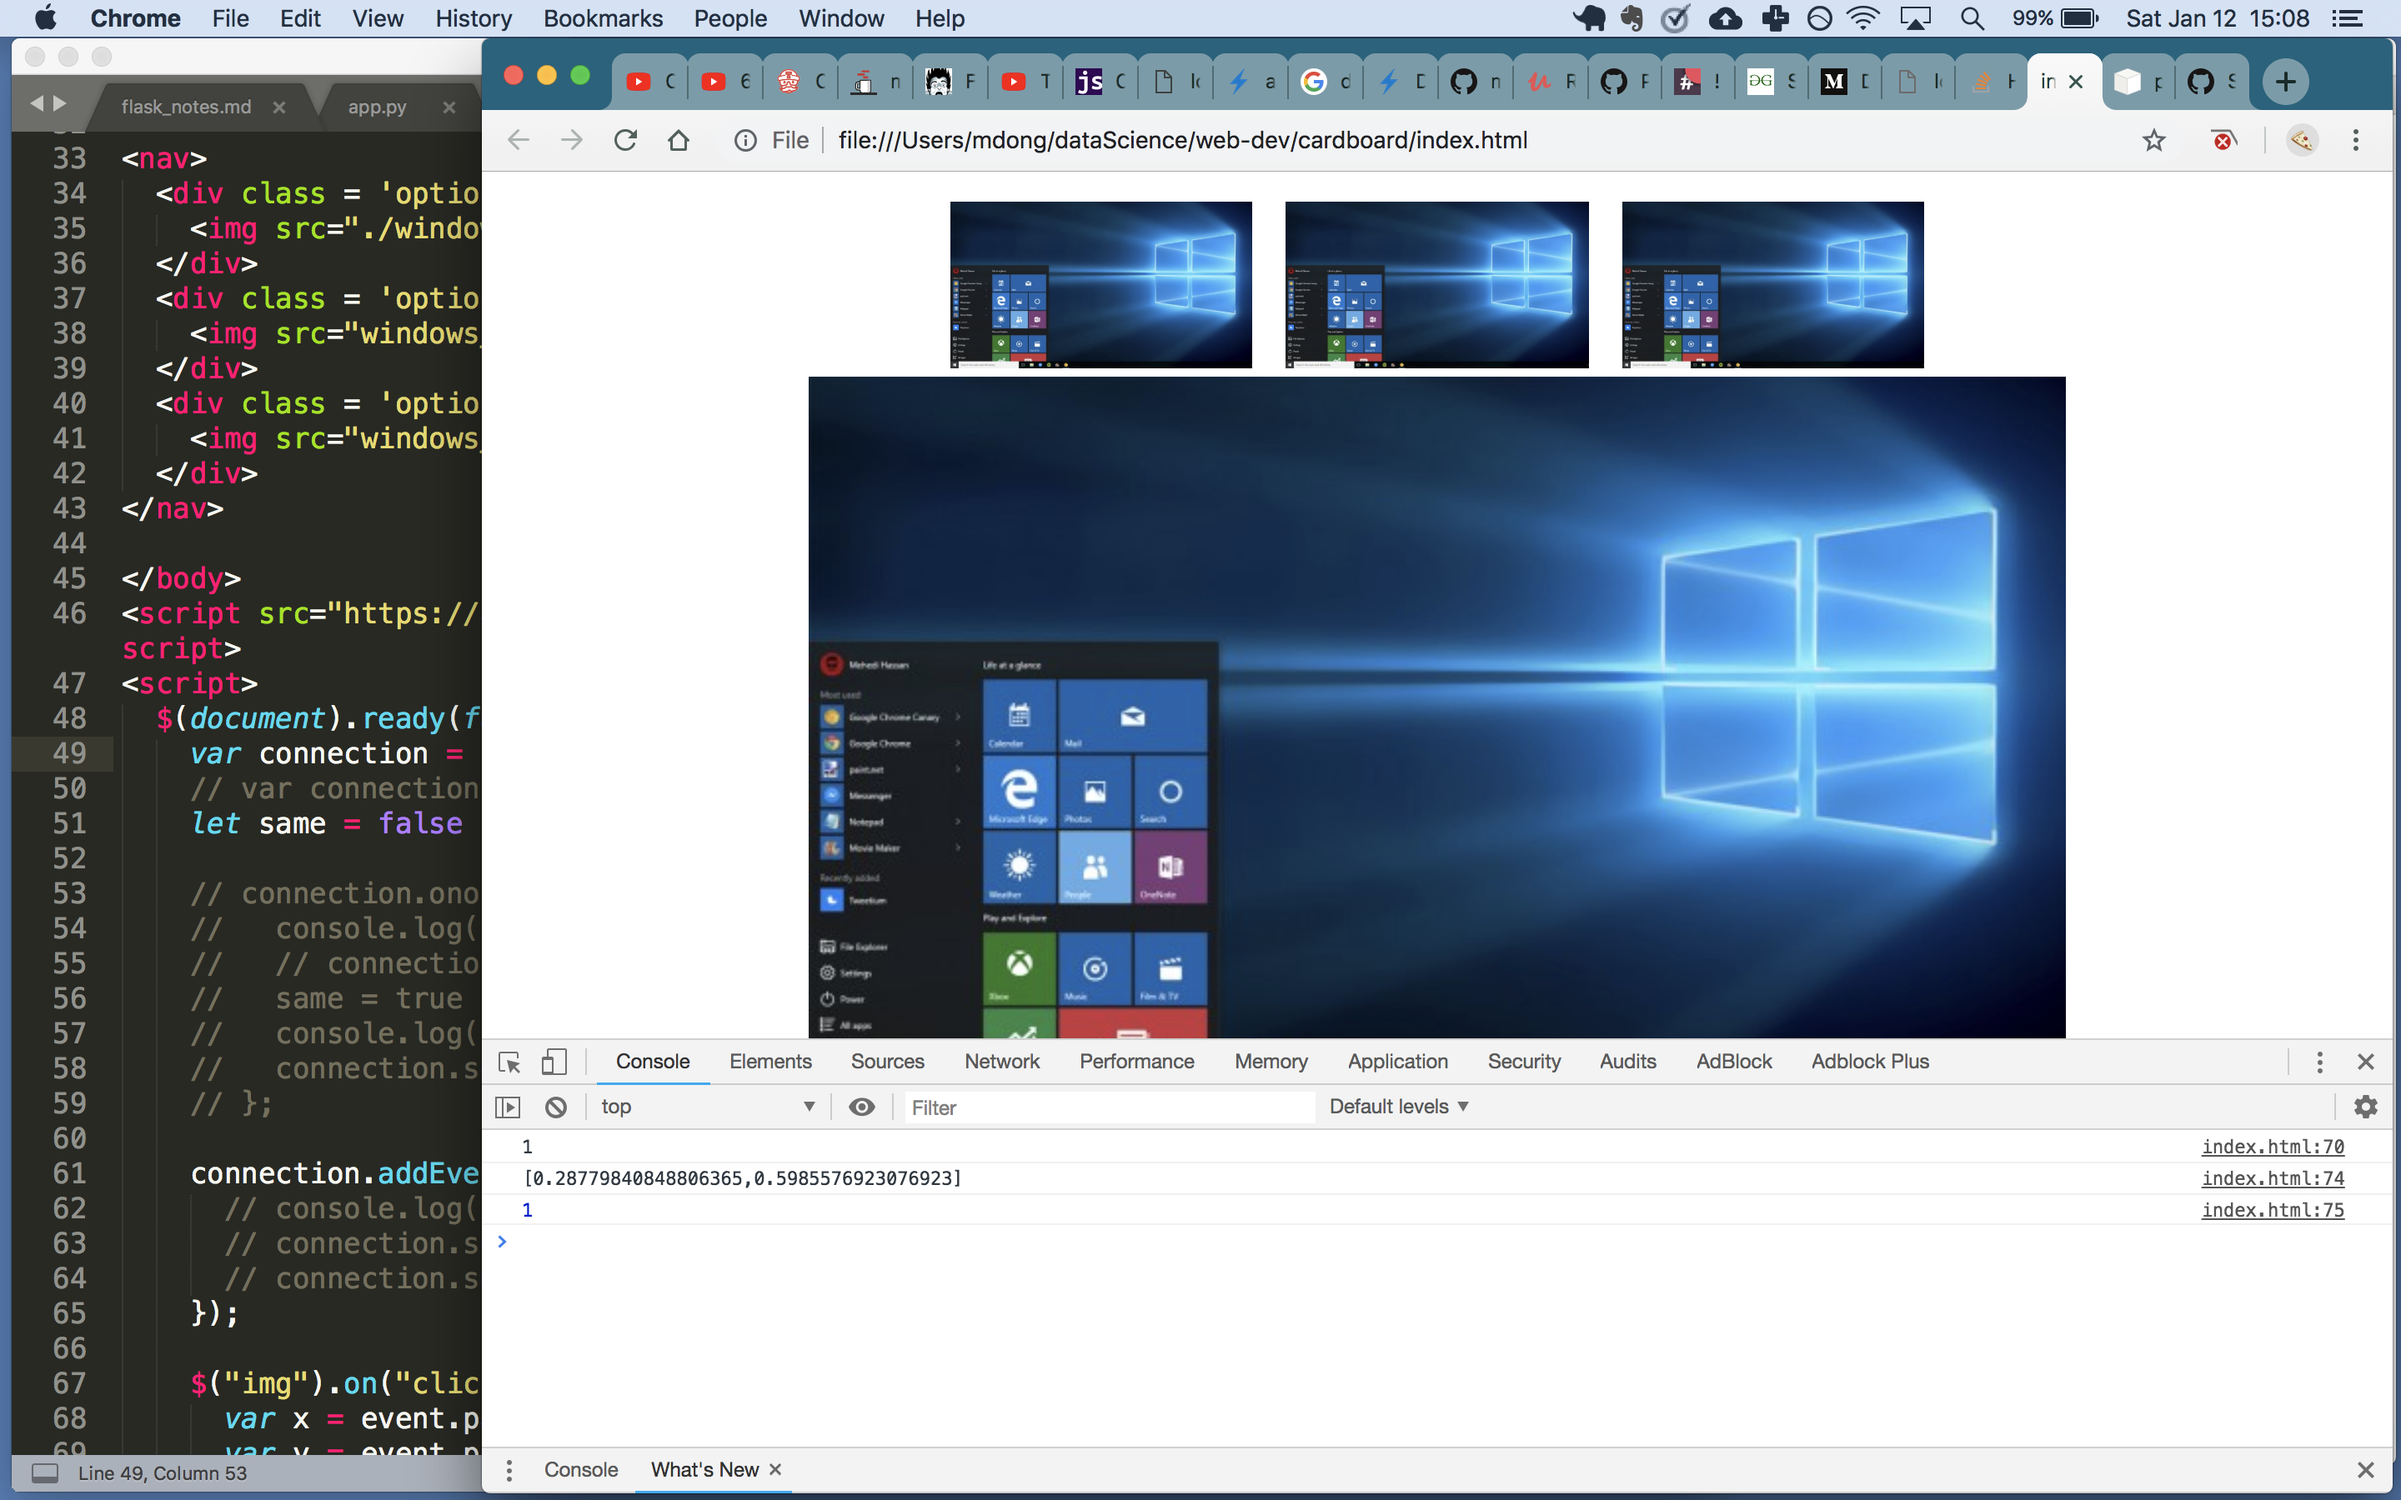
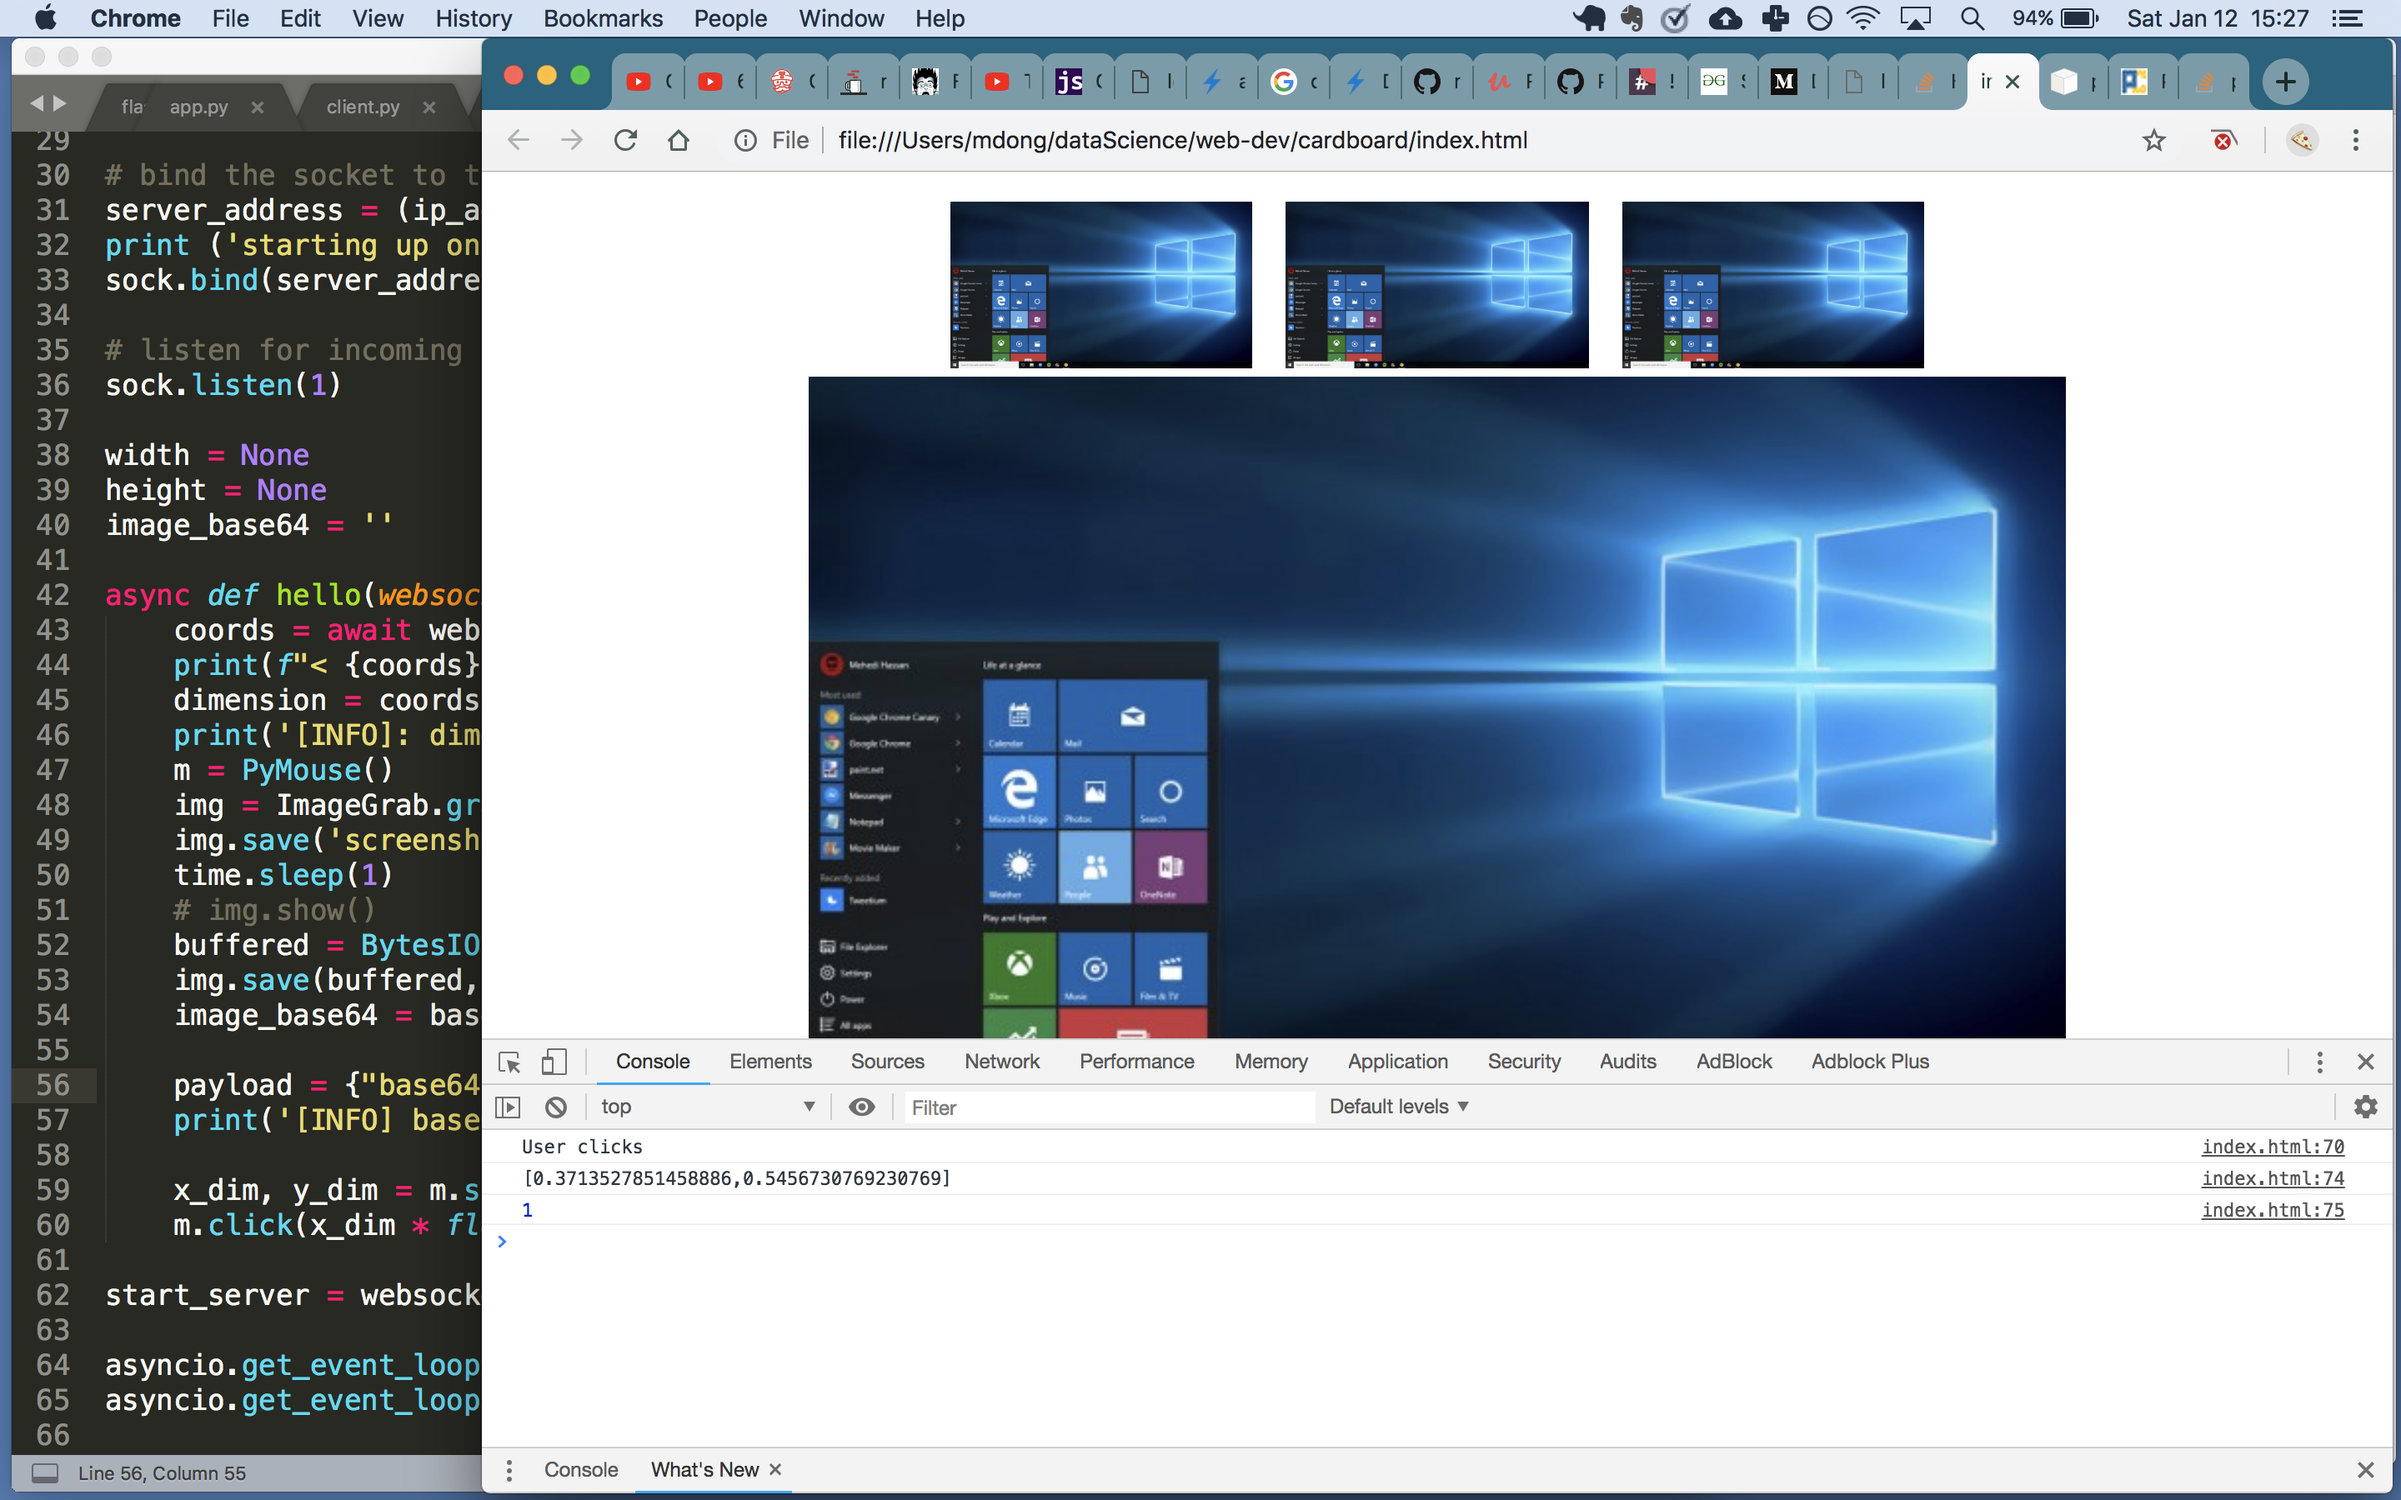
update server: base64 conversion

Changed region(s): [[0.0, 0.0622, 0.2188, 0.9956], [0.2812, 0.0, 0.9688, 0.0933], [0.25, 0.7778, 0.4062, 0.8089]]

diff --git a/index.html b/index.html
@@ -67,21 +67,18 @@ nav {
     $("img").on("click", function(event) {
       var x = event.pageX - this.offsetLeft;
       var y = event.pageY - this.offsetTop;
-      console.log("1")
+      console.log("User clicks")
     	// console.log(this.width, x/this.width)
     	// console.log(this.height, y/this.height)
     	const data = [x/this.width, y/this.height]
 		  console.log(JSON.stringify(data))
-      console.log(connection.readyState)
+      console.log('[INFO] ready state: ', connection.readyState)
       connection.send(JSON.stringify(data))
-
-
 
       connection.onerror = function (error) {
         console.log("alpha")
         // an error occurred when sending/receiving data
       };
-
 
       connection.onmessage = function (message) {
         console.log(JSON.stringify(data))

diff --git a/server.py b/server.py
@@ -3,11 +3,9 @@ import socket
 import websockets
 import asyncio
 from pymouse import PyMouse
-import json
 import time
 import pyscreenshot as ImageGrab
 from PIL import Image
-import requests
 import base64
 from io import BytesIO
 
@@ -37,74 +35,29 @@ sock.listen(1)
 
 width = None
 height = None
-
+image_base64 = ''
 
 async def hello(websocket, path):
-    coords = await websocket.recv()
-    print(f"< {coords}")
-    dimension = coords[1:-1].split(',')
-    print('[INFO]: dimension')
-    m = PyMouse()
-    im = ImageGrab.grab()
-    im.save('screenshot.png')
-    im.show()
-    x_dim, y_dim = m.screen_size()
+	coords = await websocket.recv()
+	print(f"< {coords}")
+	dimension = coords[1:-1].split(',')
+	print('[INFO]: dimension')
+	m = PyMouse()
+	x_dim, y_dim = m.screen_size()
+	m.click(x_dim * float(dimension[0]), y_dim * float(dimension[1]))
 
-    m.click(x_dim * float(dimension[0]), y_dim * float(dimension[1]))
+	img = ImageGrab.grab()
+	img.save('screenshot.png')
+	time.sleep(1)
+	# img.show()
+	buffered = BytesIO()
+	img.save(buffered, format="PNG")
+	image_base64 = base64.b64encode(buffered.getvalue())
+	
+	payload = {"base64": image_base64.decode('utf-8')}
+	return payload
 
 start_server = websockets.serve(hello, '10.30.3.126', 23456)
 
 asyncio.get_event_loop().run_until_complete(start_server)
 asyncio.get_event_loop().run_forever()
-
-
-# while True:  
-#   # wait for a connection
-#   # print ('waiting for a connection')
-
-#   # try:
-#       # show who connected to us
-#   print('Ready to accept now...') 
-#   connection, client_address = sock.accept()
-#   print ('connection from', client_address)
-#   # receive the data in small chunks and print it
-#   time.sleep(1)
-#   print ("1")
-
-#   # data = connection.recv(4096)
-#   # if (data != type(byte)):
-#   while 1:
-#       data = connection.recv(8000)
-#       if not data: break
-#       print(data)
-#   # print (data)
-#   # except:
-#       # print ("REEEEEEEE")
-
-#       # print (data.decode('utf-8'))
-#       # if width is None:
-#       #   # output received data
-#       #   print ("width: %s" % data)
-#       #   width = float(data)
-#       # elif height is None:
-#       #   print("height: %s" % data)
-#       #   height = float(data.decode())
-#       # else:
-#       #   # no more data -- quit the loop
-#       #   print ("no more data.")
-#       #   break
-
-#   # finally:
-#       # Clean up the connection
-#       # print(width)
-#       # print(height)
-
-#       # m = PyMouse()
-#       # k = PyKeyboard()
-#       # x_dim, y_dim = m.screen_size()
-
-#       # m.click(x_dim * width, y_dim * height, 1)
-#       # # print('done')
-
-#       # connection.close()
-# socket.close()

diff --git a/README.md b/README.md
@@ -1,2 +1,6 @@
 # Cardboard
 
+1. User clicks on RPI 
+1. Mouseclick coordinates sent through websocket
+1. Click on actual device
+1. Screenshot of result sent back to RPI
